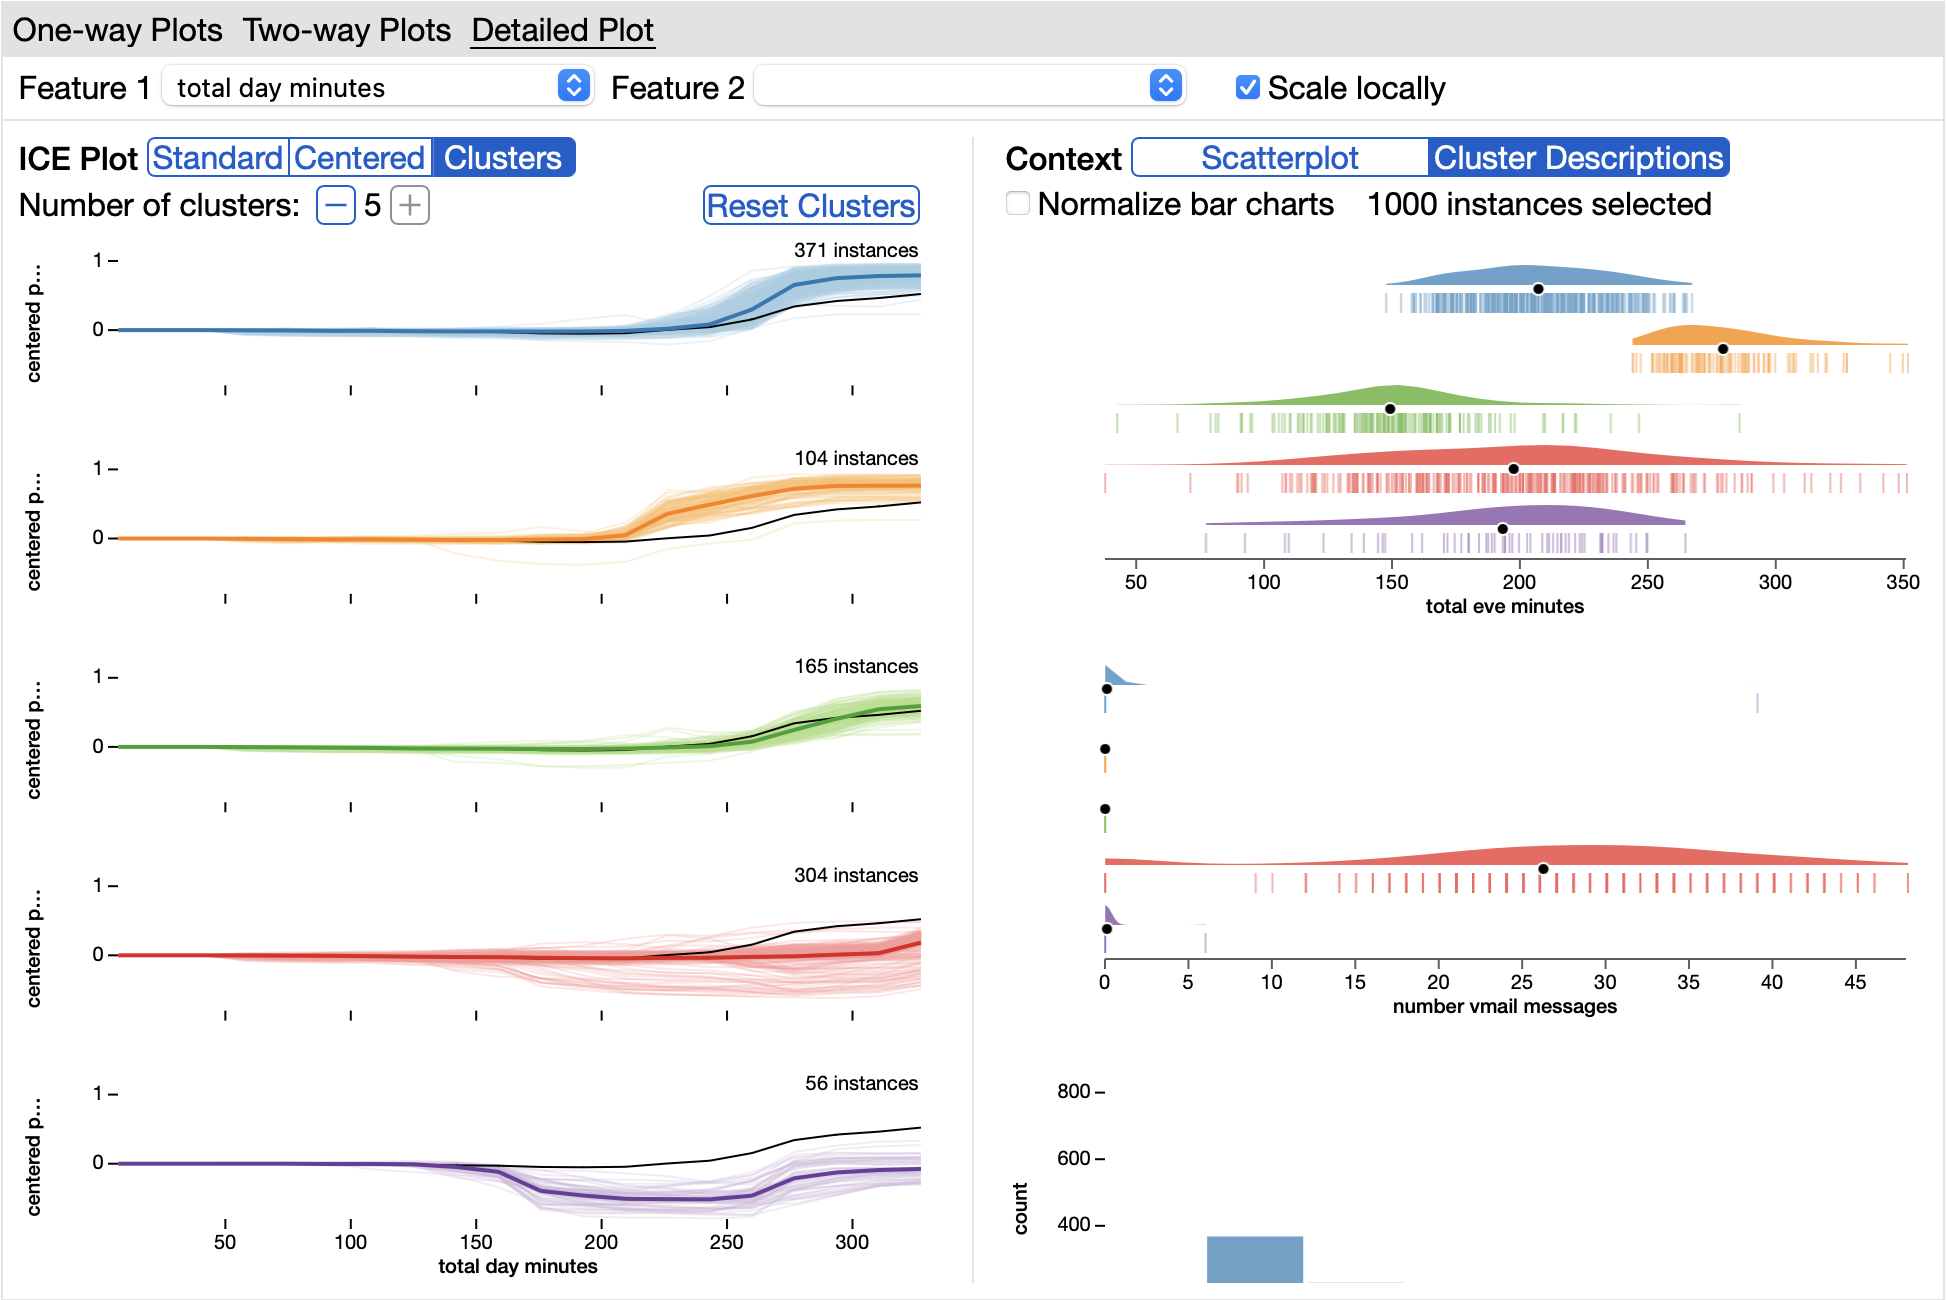
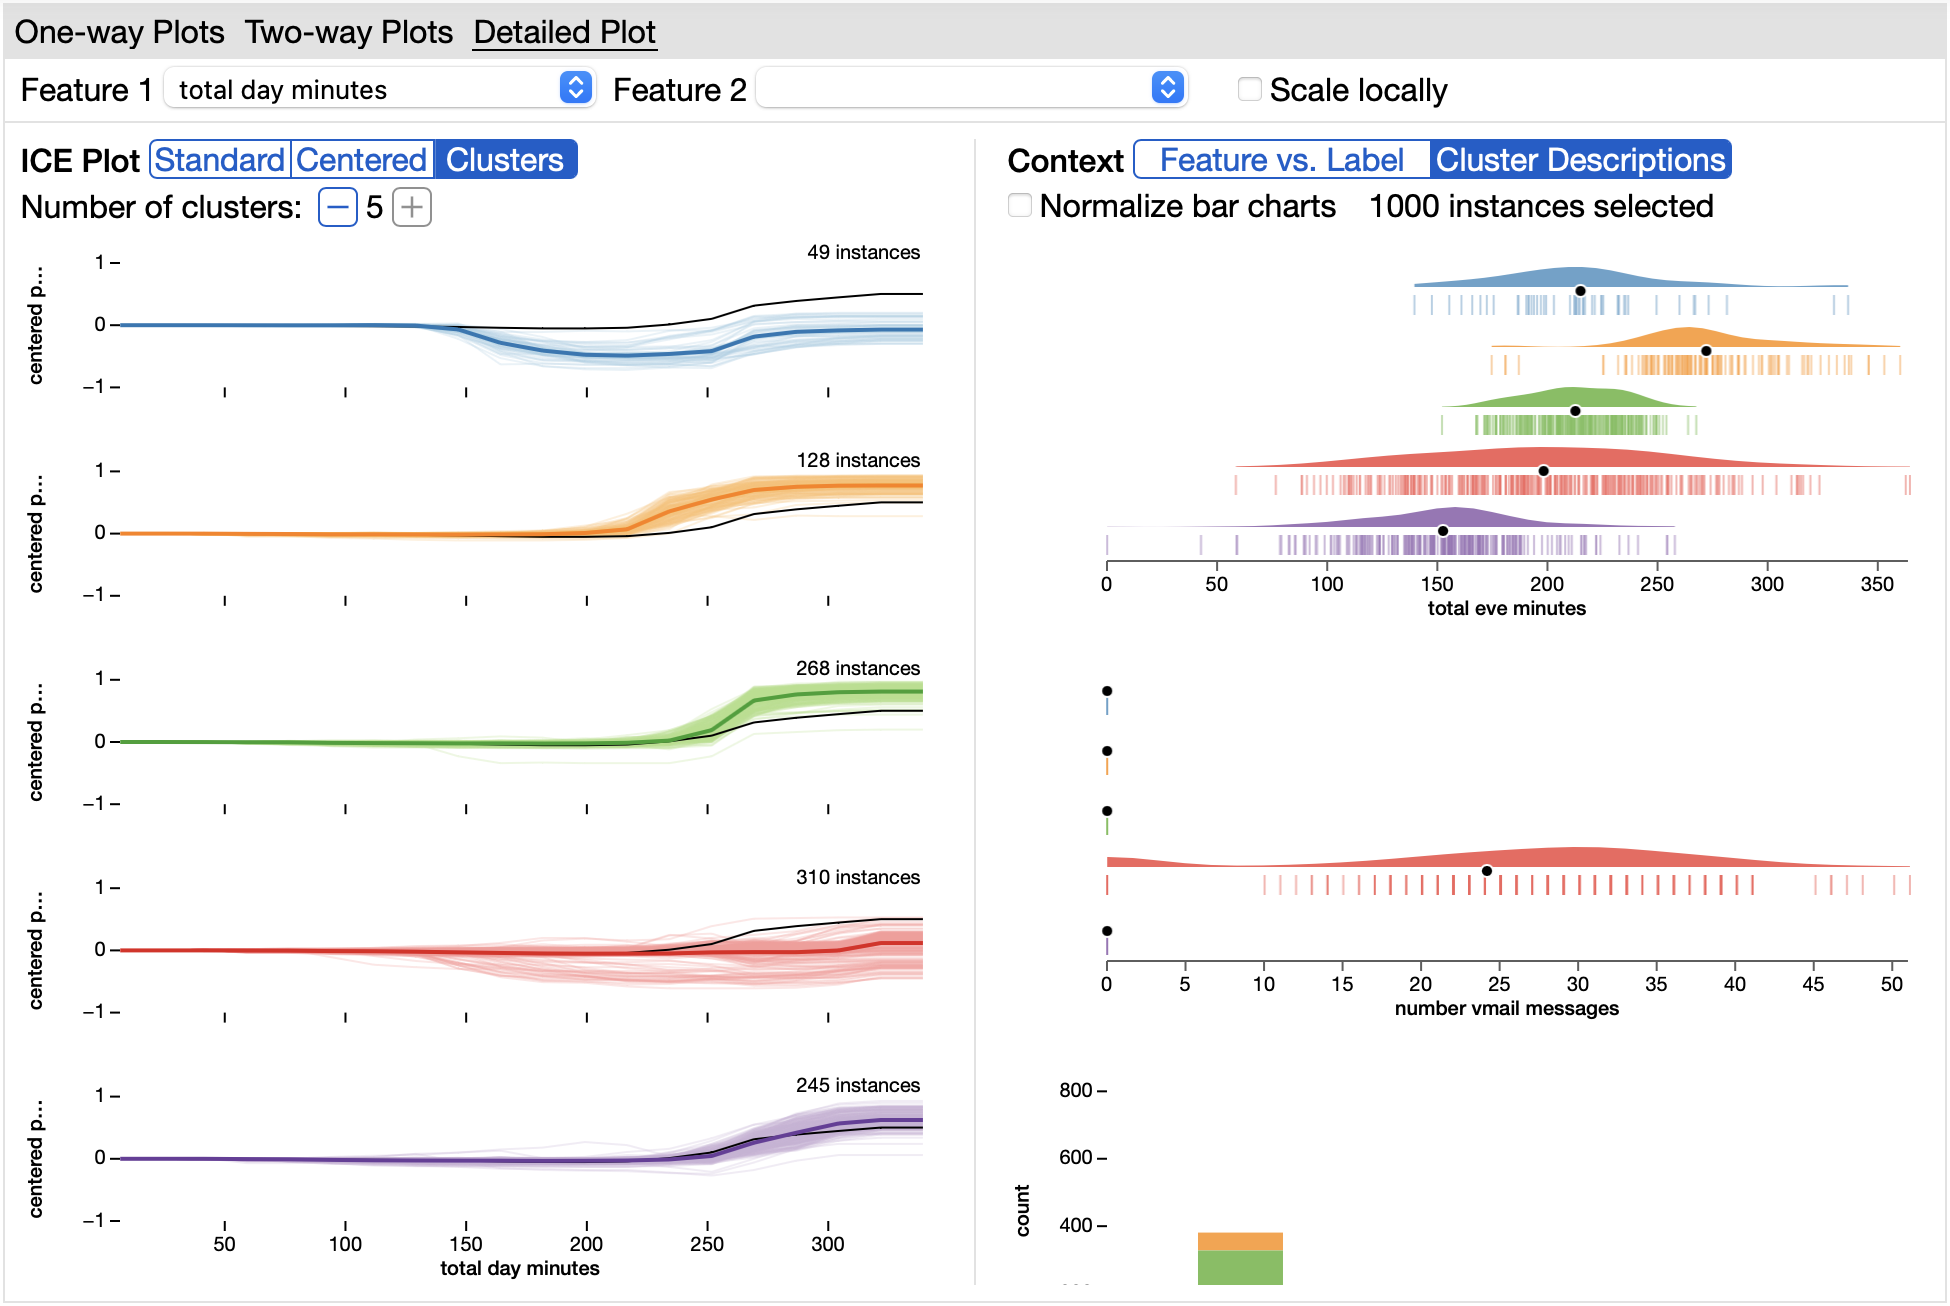
release v0.5.0

diff --git a/src/components/OneWayDetailedPlot.svelte b/src/components/OneWayDetailedPlot.svelte
@@ -50,7 +50,7 @@
   }[] = [];
 
   $: contextOptions = [
-    { value: 'scatterplot', label: 'Scatterplot', enabled: true },
+    { value: 'scatterplot', label: 'Feature vs. Label', enabled: true },
     {
       value: 'cluster-descriptions',
       label: 'Cluster Descriptions',

diff --git a/pdpilot/_version.py b/pdpilot/_version.py
@@ -1,5 +1,5 @@
 #!/usr/bin/env python
 # coding: utf-8
 
-version_info = (0, 4, 6)
+version_info = (0, 5, 0)
 __version__ = ".".join(map(str, version_info))

diff --git a/pdpilot/_frontend.py b/pdpilot/_frontend.py
@@ -6,4 +6,4 @@ Information about the frontend package of the widgets.
 """
 
 module_name = "pdpilot"
-module_version = "^0.4.6"
+module_version = "^0.5.0"

diff --git a/docs/source/ui.rst b/docs/source/ui.rst
@@ -11,7 +11,9 @@ One-way Plots
   :width: 800
   :alt: Screenshot of the One-way Plots tab in PDPilot.
 
-The One-way Plots tab shows a grid of `PDP <https://christophm.github.io/interpretable-ml-book/pdp.html>`_ + `ICE <https://christophm.github.io/interpretable-ml-book/ice.html>`_ plots, each containing one feature. Each plot shows the ICE lines in gray and the partial dependence line in black.  Above the plots, there is a row of controls. The arrow buttons allow you to change pages. The “ICE” dropdown menu controls the type of visualization shown. The default is the standard ICE plot. Alternatively, you can show centered ICE plots, where all of the lines start at y = 0. Lastly, you can cluster the ICE lines and show the mean of each cluster. The “Scale locally” checkbox determines whether each plot has the same y-axis or each plot has its y-axis scaled to fit its own data. For normal ICE plots, scaling locally may not have any effect if the ICE lines already take up the full range of y-values. The "Distributions" checkbox toggles whether or not the marginal distributions of the features are shown above the plots. Brushing the lines on an ICE plot highlights the lines for those instances across all of the plots.
+The One-way Plots tab shows a grid of `PDP <https://christophm.github.io/interpretable-ml-book/pdp.html>`_ + `ICE <https://christophm.github.io/interpretable-ml-book/ice.html>`_ plots, each containing one feature. Each plot shows the ICE lines in gray and the partial dependence line in black. Above each plot is a histogram showing the distribution of the feature's values in the dataset. In the row of controls at the top, the arrow buttons allow you to change pages. The “ICE” dropdown menu controls the type of visualization shown. The default is the standard ICE plot. Alternatively, you can show centered ICE plots, where all of the lines start at y = 0. Lastly, you can cluster the ICE lines and show the mean of each cluster. The “Scale locally” checkbox determines whether each plot has the same y-axis or each plot has its y-axis scaled to fit its own data. For normal ICE plots, scaling locally may not have any effect if the ICE lines already take up the full range of y-values.
+
+Brushing the lines on an ICE plot highlights the lines for those instances across all of the plots. When you brush lines, the histograms update to show both the distribution of the highlighted instances and the distribution of the entire dataset. The green bars show the distribution of the highlighted instances. The transparent bars with black outline show the distribution of the entire dataset. The two plots are overlaid so that you can compare the highlighted distribution to the overall distribution.
 
 The “Sort” dropdown menu controls how the plots are sorted. The one-way plots can be ranked according to one of several metrics:
 
@@ -20,7 +22,7 @@ The “Sort” dropdown menu controls how the plots are sorted. The one-way plot
 * **Highlighted similarity**: Used in coordination with brushing ICE lines. This metric can be useful to identify if a cluster of instances in one plot is also a cluster in any others. Plots where the highlighted lines are closer together and farther from the partial dependence line are ranked first. The distances are computed on the centered ICE lines, so this metric is best paired with the centered ICE lines visualization. If you change the highlighted instances after selecting this metric, then clicking the refresh button next to the drop-down menu will update the rankings.
 * **Highlighted distribution**: Used in coordination with brushing ICE lines. For each plot, this metric measures the distance between the distribution of feature values for the highlighted instances to the distribution for all instances. The plots are sorted in descending order so that the features whose highlighted distributions are most different from the overall distributions are ranked higher. If you change the highlighted instances after selecting this metric, then clicking the refresh button next to the drop-down menu will update the rankings.
 
-On the left sidebar, you can filter the plots by the type of the feature, by the shape of the PDP, and by feature name. Ordered features have values with defined orders, such as quantities. Nominal features have values without defined orders, such as categories. For ordered features, you can filter by whether the feature's PDP is generally increasing, decreasing, or sometimes increasing and sometimes decreasing.
+On the left sidebar, you can filter the plots by the type of the feature, by the shape of the PDP, and by feature name. Ordered features have values with defined orders, such as temperature or day of the week. Nominal features have values without defined orders. For ordered features, you can filter by whether the feature's PDP is generally increasing, decreasing, or sometimes increasing and sometimes decreasing.
 
 Two-way Plots
 -------------
@@ -41,15 +43,15 @@ Detailed Plot
 
 Hovering over any plot in the One-way Plots or Two-way Plots tab will reveal an expand button in the bottom-left corner of the plot. Clicking on this button will show this plot in the Detailed Plot tab. Alternatively, you can directly go to the Detailed Plot tab and choose which feature or pair of features you want to look at in more detail.
 
-.. image:: screenshots/detailed-plot-one-way-scatter.png
+.. image:: screenshots/detailed-plot-one-way-ground-truth.png
   :width: 800
-  :alt: Screenshot of the Detailed Plots tab in PDPilot for a one-way PDP.
+  :alt: Screenshot of the Detailed Plots tab in PDPilot showing a one-way ICE plot alongside a visualization of the feature values vs. ground truth labels.
 
-For a one-way plot, this tab shows two visualizations side-by-side. On the left is a visualization of the ICE plot and on the right is a visualization that provides more context. For the ICE plot, you can choose between a standard ICE plot, a centered ICE plot, and a clustered ICE plot. For standard and centered ICE plots, the only available context plot visualizes the feature values and ground truth labels.
+For a one-way plot, this tab shows two visualizations side-by-side. On the left is a visualization of the ICE plot and on the right is a visualization that provides more context. For the ICE plot, you can choose between a standard ICE plot, a centered ICE plot, and a clustered ICE plot. For standard and centered ICE plots, the context plot visualizes the feature values and ground truth labels.
 
 .. image:: screenshots/detailed-plot-one-way-clusters.png
   :width: 800
-  :alt: Screenshot of the Detailed Plots tab in PDPilot for a one-way PDP.
+  :alt: Screenshot of the Detailed Plots tab in PDPilot showing a clustered one-way ICE plot alongside visual descriptions of the clusters.
 
 In this tab, the “Clusters” visualization shows each cluster of ICE lines in its own plot. The ICE lines in each cluster are shown in lighter-colored lines. The mean of each cluster is shown in a darker-colored line. The partial dependence line is shown in black in each plot. In order to understand what kind of instances make up each cluster, you can change the context visualization to "Cluster Descriptions". This visualizes the distributions of the instances in each cluster for a handful of features. PDPilot automatically chooses features that are helpful in separating the clusters.
 
